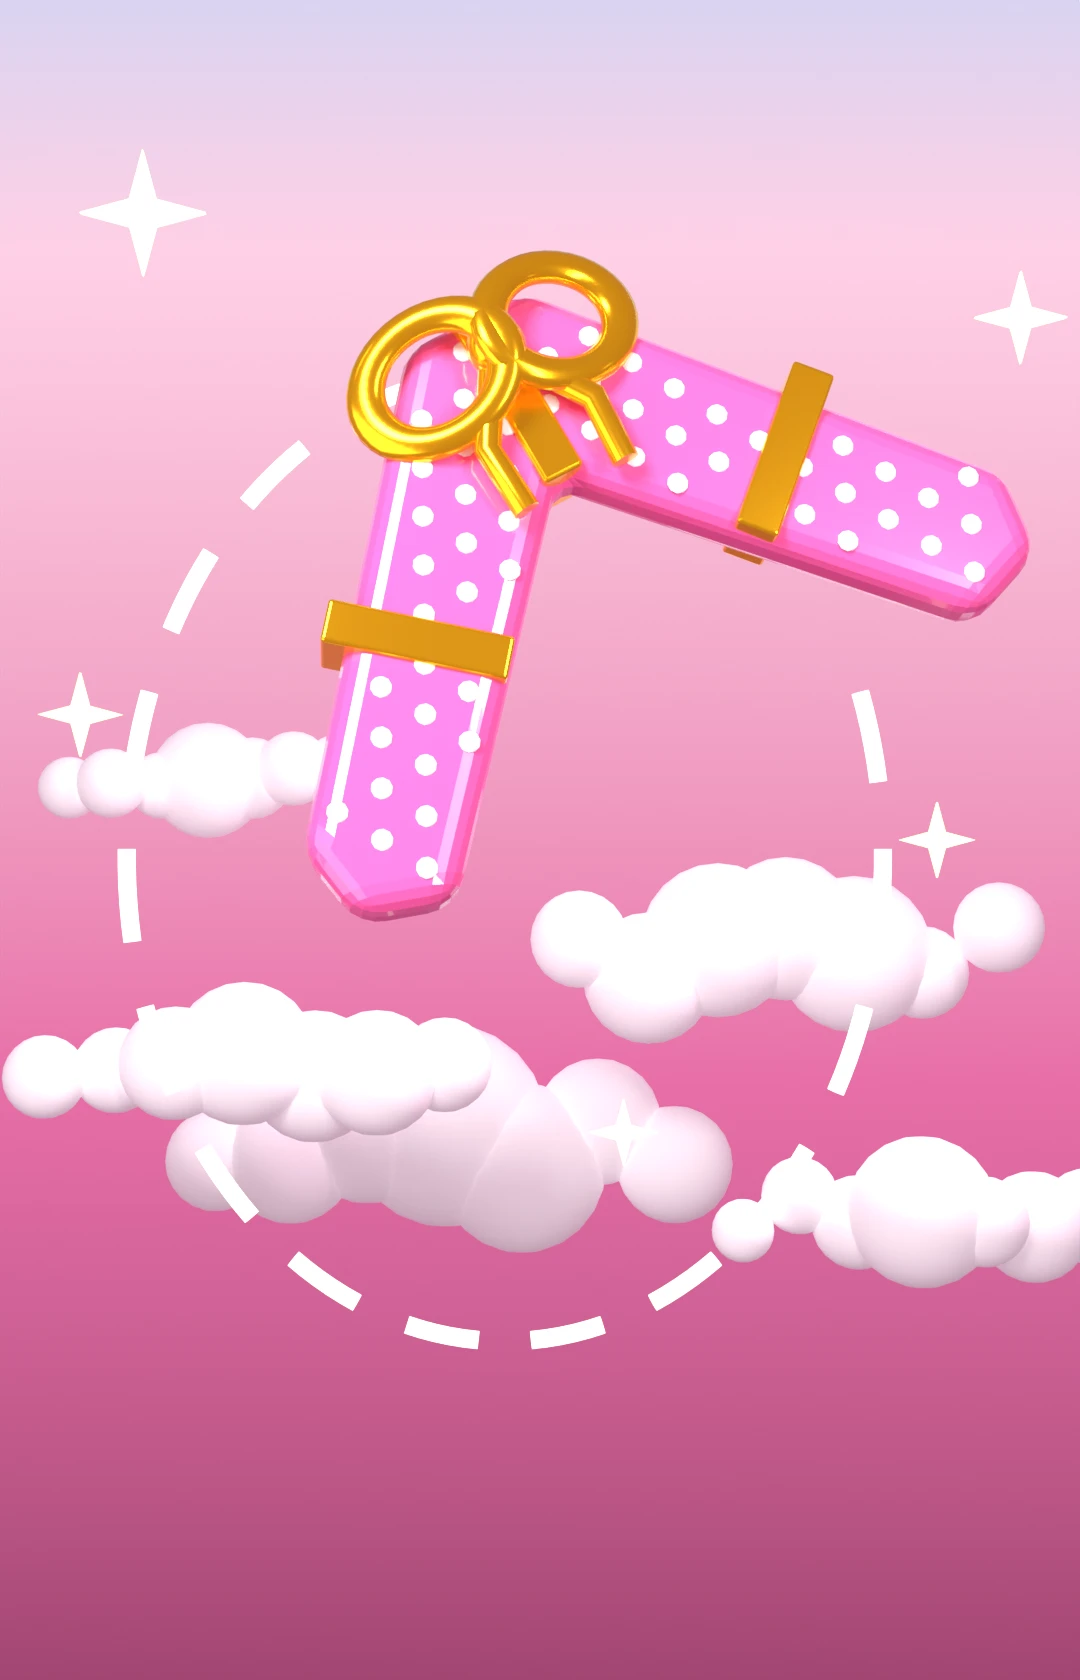
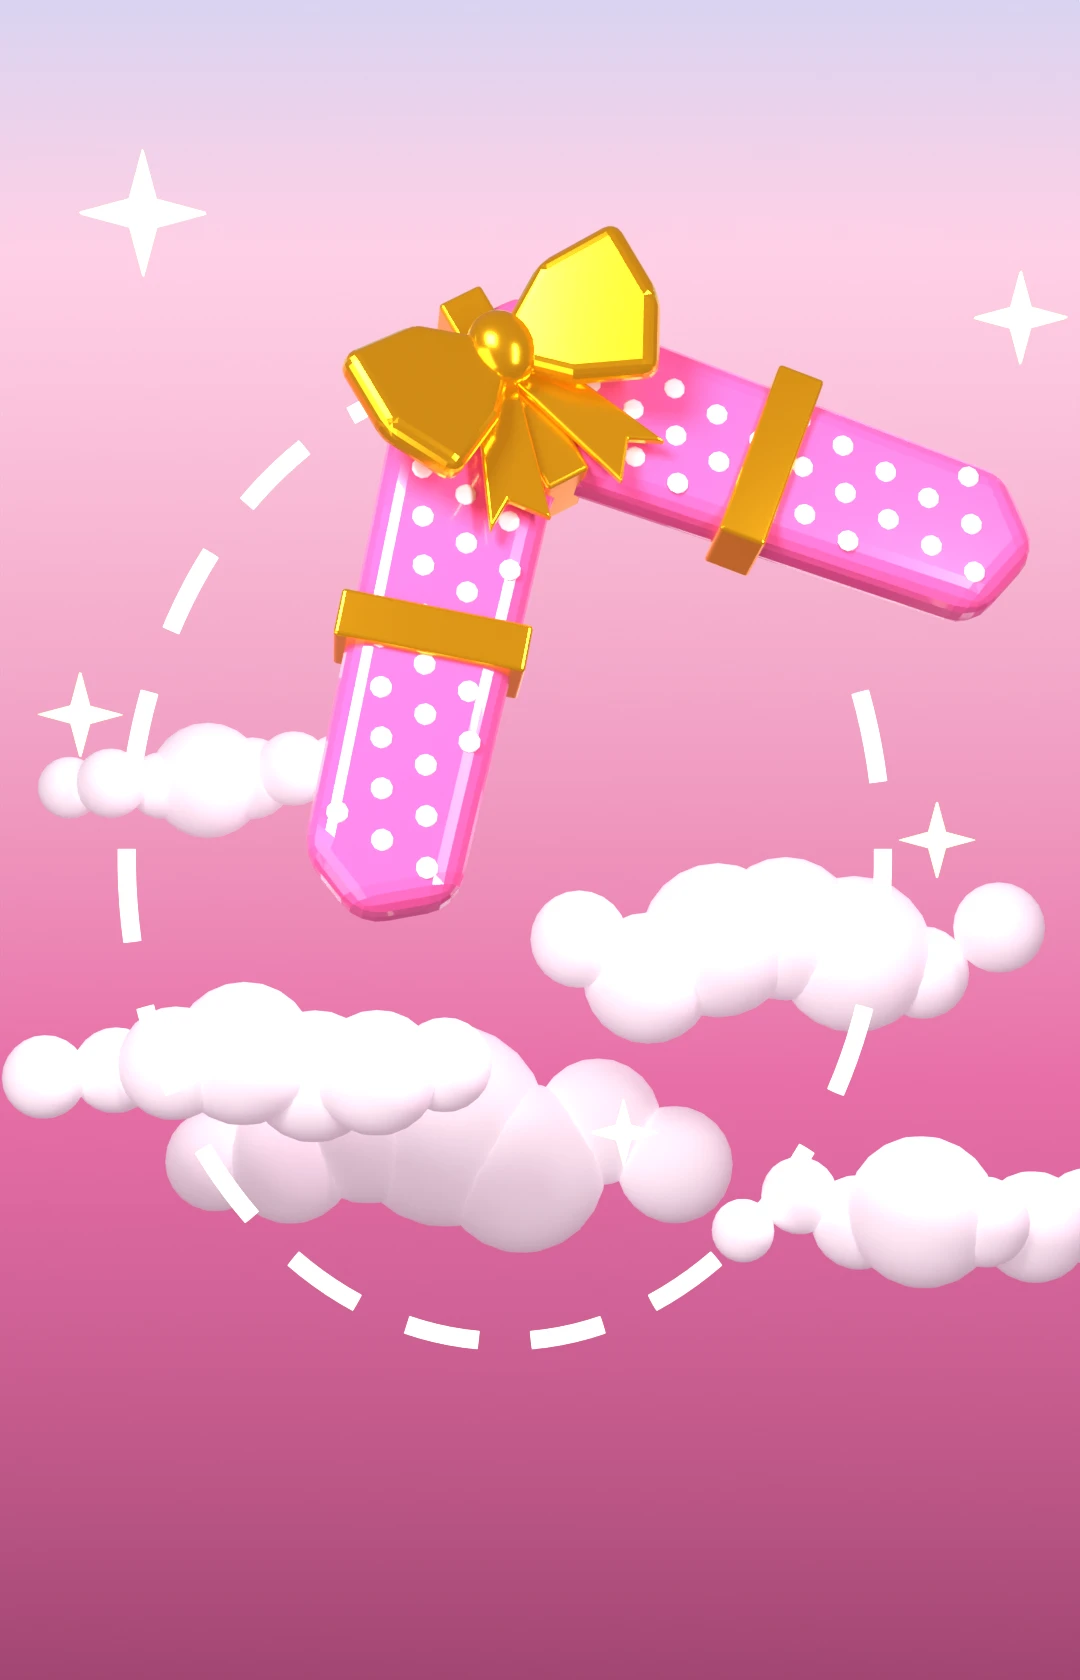
Revise seven card pictures to the owner's notes
SoVeryHappy: bulging eyes, brows low over the nose, the nose out in front
of the mustache, to match its new mark. Whoopee Cushion: no noise lines and
a smaller cloud, clear of the letters. Required Reading: the bookmark gone,
the glasses clear of the apple. Kick Me: a rounder boot on a leg, swung
about a hip, and the sign hung clear of the post. Pay It Forward: ribbons
right round each arm and a bow with loops and tails. Thick Skin: bursts
turned out from the shell, darts tumbling. Necro Bump: no speed lines,
moonlight, a low tipped camera, the moon over the stone's shoulder.

Changed region(s): [[0.275, 0.1238, 0.6722, 0.4333], [0.6417, 0.2167, 0.7944, 0.3405]]

diff --git a/instances/divided-world/ui/cards/kick-me/scene.py b/instances/divided-world/ui/cards/kick-me/scene.py
@@ -1,4 +1,4 @@
-"""Kick Me card art: a post with a KICK ME sign taped to it, and a boot already on its way. (The card hangs the sign
+"""Kick Me card art: a post with a KICK ME sign taped to it, and somebody's boot on the way up to it. (The card hangs the sign
 on one's own post for 3 days, and the first three Salty casts on it are refunded to their casters.)"""
 import sys, os, math
 sys.path.insert(0, os.path.dirname(os.path.dirname(os.path.abspath(__file__))))   # rig.py is one folder up, shared by every card
@@ -34,25 +34,34 @@ sign = [rig.slab('sign', rig.rrect(2.7, 2.15, 0.04, 2), -0.012, 0.012, paper, 0.
         rig.text('ME', 0.98, marker, (0, -0.03, -0.5), depth=0.008, bevel=0.002)]
 for sx in (-1, 1):
     t = rig.slab('tape', rig.rrect(0.75, 0.26, 0.02, 1), -0.03, -0.018, tape, 0.0); t.location = (sx * 1.25, 0, 1.0); t.rotation_euler.y = math.radians(sx * 38); sign.append(t)
-rig.group(sign, loc=(0.35, 0.55, 1.75), rot=(6, 4, -9))
+rig.group(sign, loc=(0.35, 0.3, 1.75), rot=(2, -6, -9))    # hung clear of the post's face, turned the way the post is
 
-# ---- the boot: on the upswing, toe first ----------------------------------------------------------
+# ---- the boot: a leg swung from a hip up off the card's left, the toe about to arrive ---------------
 leather = rig.plastic('leather', rig.hexrgb('#5a2a14'), rough=0.3, coat=0.7)
 sole = rig.plastic('sole', (0.02, 0.018, 0.016), rough=0.5)
 brass = rig.plastic('brass', rig.hexrgb('#ffc21c'), rough=0.2, metallic=1.0)
-UPPER = [(-1.15, 0.0), (1.2, 0.0), (1.5, 0.12), (1.62, 0.42), (1.5, 0.74), (1.1, 0.95), (0.55, 1.02), (0.22, 1.3), (0.14, 2.45), (-1.02, 2.45), (-1.1, 0.5)]
-SOLE = [(-1.25, -0.48), (-0.55, -0.48), (-0.5, -0.24), (1.3, -0.24), (1.66, -0.1), (1.72, 0.06), (-1.25, 0.06)]
-boot = [rig.slab('upper', UPPER, -0.5, 0.5, leather, 0.22), rig.slab('sole', SOLE, -0.56, 0.56, sole, 0.05),
-        rig.slab('cuff', rig.rrect(1.3, 0.34, 0.12), -0.56, 0.56, rig.plastic('cuff', rig.hexrgb('#f2e2c0'), rough=0.6), 0.08)]
-boot[2].location = (-0.44, 0, 2.42)
+denim = rig.plastic('denim', rig.hexrgb('#27508a'), rough=0.7)
+UPPER = [(-1.1, 0.0), (1.15, 0.0), (1.5, 0.1), (1.66, 0.4), (1.56, 0.74), (1.15, 0.98), (0.6, 1.05), (0.26, 1.35), (0.16, 2.45), (-1.0, 2.45), (-1.08, 0.5)]
+SOLE = [(-1.2, -0.42), (-0.5, -0.42), (-0.45, -0.22), (1.3, -0.22), (1.68, -0.1), (1.76, 0.06), (-1.2, 0.06)]
+def soft(o):
+    """Round a slab off: the old trick of subdividing the surface."""
+    md = o.modifiers.new('soft', 'SUBSURF'); md.levels = md.render_levels = 2
+    for f in o.data.polygons: f.use_smooth = True
+    return o
+boot = [soft(rig.slab('upper', UPPER, -0.48, 0.48, leather, 0.2)), soft(rig.slab('sole', SOLE, -0.54, 0.54, sole, 0.06)),
+        rig.ball((1.02, 0, 0.5), 0.56, leather, 'toe', 40, scale=(1.2, 0.86, 0.9)),
+        rig.cone((-0.42, 0, 2.2), (-0.42, 0, 2.75), 0.62, 0.66, rig.plastic('cuff', rig.hexrgb('#f2e2c0'), rough=0.6), 40),
+        rig.cone((-0.42, 0, 2.6), (-0.42, 0, 9.0), 0.6, 0.8, denim, 40)]              # the leg, away up to the hip
 for k in range(5):                       # eyelets up the front, and the lace between them
-    x, z = 0.28 - 0.02 * k, 1.2 + 0.24 * k
-    boot.append(rig.ball((x, -0.5, z), 0.06, brass, 'eyelet', 12))
-    boot.append(rig.tube('lace', [(x, -0.52, z), (x - 0.25, -0.56, z + 0.1), (x - 0.02, -0.52, z + 0.24)], 0.025, rig.plastic('lace', rig.hexrgb('#f2e2c0'), rough=0.6), res=3))
-rig.group(boot, loc=(-0.2, -1.0, -2.7), rot=(0, -50, -20), scale=0.72)
+    x, z = 0.3 - 0.02 * k, 1.25 + 0.22 * k
+    boot.append(rig.ball((x, -0.46, z), 0.06, brass, 'eyelet', 12))
+    boot.append(rig.tube('lace', [(x, -0.48, z), (x - 0.25, -0.52, z + 0.1), (x - 0.02, -0.48, z + 0.22)], 0.025, rig.plastic('lace', rig.hexrgb('#f2e2c0'), rough=0.6), res=3))
+HIP = Vector((-3.6, -1.0, 2.4)); REACH = 5.0; AT = math.radians(-44)     # the leg's pivot, its length, and where on its swing the boot is
+foot = HIP + Vector((math.cos(AT), 0, math.sin(AT))) * REACH
+rig.group(boot, loc=tuple(foot), rot=(0, math.degrees(AT) - 90 + 90 - 4, -14), scale=0.6)   # shin toward the hip, toe along the swing
 swing = rig.glow('swing', rig.hexrgb('#ffd27a'), 2.5, alpha=0.6)
-for r, w in ((2.9, 0.045), (3.3, 0.035), (3.7, 0.025)):   # the arc it has come through
-    rig.tube('swing', [(1.6 + math.cos(a) * r, -0.6, 0.9 + math.sin(a) * r) for a in (math.radians(-175 + 50 * j / 20) for j in range(21))], w, swing, res=2)
+for r, w, back in ((REACH - 0.35, 0.03, 30), (REACH + 0.05, 0.045, 38), (REACH + 0.45, 0.03, 30)):   # the arc the foot has come up through, about the hip
+    rig.tube('swing', [tuple(HIP + Vector((math.cos(a), 0, math.sin(a))) * r + Vector((0, 0.5, 0))) for a in (AT - math.radians(9 + back * j / 20) for j in range(21))], w, swing, res=2)
 
 LOOK = (0, 0, 0.5)
 rig.area('key', (-5, -9, 7), 4.0, 1500, look_at=LOOK)

diff --git a/instances/divided-world/ui/cards/necro-bump/scene.py b/instances/divided-world/ui/cards/necro-bump/scene.py
@@ -1,18 +1,19 @@
 """Necro Bump card art: a headstone shot back up out of its own grave on a spring, an arrow cut into it under the
-R.I.P., dirt still flying, a fat moon behind. (The card bumps an old post's thread to the top of its board and marks
+R.I.P., dirt still flying, a cold moon over its shoulder. (The card bumps an old post's thread to the top of its board and marks
 the post "bumped" for a day.)"""
 import sys, os, math, random
 sys.path.insert(0, os.path.dirname(os.path.dirname(os.path.abspath(__file__))))   # rig.py is one folder up, shared by every card
 sys.dont_write_bytecode = True           # no __pycache__ beside the card folders: the art guard reads every folder there as a card's
 import bpy
-from mathutils import Vector
+from mathutils import Vector, Quaternion
 import rig
 
 OUT = sys.argv[-1]
 rnd = random.Random(int(os.environ.get('BUMP_SEED', '9')))
 sc = rig.reset()
-rig.backdrop(22, [(0.0, '#0a0102'), (0.4, '#3a0a0a'), (0.75, '#8a2414'), (1.0, '#160304')]).scale = (80, 50, 1)
-rig.ball((1.5, 20, 3.6), 4.2, rig.glow('moon', rig.hexrgb('#ffb24a'), 1.6), 'moon', 64, scale=(1, 0.05, 1))
+rig.backdrop(22, [(0.0, '#04030c'), (0.3, '#1a1030'), (0.5, '#4a1c44'), (0.72, '#241238'), (1.0, '#0e0c24')]).scale = (260, 200, 1)
+MOON = tuple(float(v) for v in os.environ.get('BUMP_MOON', '8.4 20 17.5').split())
+rig.ball(MOON, 3.0, rig.glow('moon', rig.hexrgb('#e8f0ff'), 1.5), 'moon', 64, scale=(1, 0.05, 1))
 G = -3.3
 m, n, l, b = rig.material('ground'); b.inputs['Base Color'].default_value = (*rig.hexrgb('#1c0c08'), 1); b.inputs['Roughness'].default_value = 0.9
 rig.floor(G, m)
@@ -51,15 +52,13 @@ rig.ball((0, 0, G + 0.02), 1.0, rig.plastic('hole', (0.002, 0.001, 0.001), rough
 for i in range(26):                      # and what went up with the stone
     a = rnd.uniform(0, math.tau); d = rnd.uniform(0.6, 2.4)
     rig.ball((math.cos(a) * d, rnd.uniform(-1.2, 0.6), G + rnd.uniform(0.6, 3.2)), rnd.uniform(0.05, 0.16), dirt, 'clod', 10)
-line = rig.glow('line', rig.hexrgb('#ffd27a'), 2.0, alpha=0.6)
-for x in (-1.75, -1.5, 1.6, 1.85):       # the speed of it
-    z0 = rnd.uniform(-2.2, -1.2)
-    rig.tube('line', [(x, -0.4, z0), (x, -0.4, z0 + rnd.uniform(1.0, 1.9))], 0.03, line, res=2)
-
 LOOK = (0, 0, 1.0)
-rig.area('key', (-5, -9, 6), 4.0, 1400, rgb=(1.0, 0.92, 0.85), look_at=LOOK)
-rig.area('rim', (5, 6, 7), 4.0, 2600, rgb=(1.0, 0.55, 0.2), look_at=LOOK, glossy=False)
-rig.area('soft', (-7, -4, -1), 8.0, 300, rgb=(1.0, 0.8, 0.7), look_at=LOOK)
-rig.world((0.06, 0.015, 0.01), 0.6)
-rig.camera(50, elev=3)
+rig.area('key', (-6, -7, 8), 4.0, 1500, rgb=(0.6, 0.75, 1.0), look_at=LOOK)       # moonlight
+rig.area('rim', (5, 6, 7), 4.0, 2600, rgb=(0.3, 0.6, 1.0), look_at=LOOK, glossy=False)
+rig.area('soft', (-7, -4, -1), 8.0, 220, rgb=(0.6, 0.7, 1.0), look_at=LOOK)
+rig.world((0.01, 0.015, 0.04), 0.6)
+cam = rig.camera(32)                     # low in the grass and tipped, looking up at it
+EYE = Vector(tuple(float(v) for v in os.environ.get('BUMP_EYE', '-1.5 -7.8 -2.7').split())); AIM = Vector((0.4, 0, -0.3))
+cam.location = EYE
+cam.rotation_euler = ((AIM - EYE).to_track_quat('-Z', 'Y') @ Quaternion((0, 0, 1), math.radians(9))).to_euler()
 rig.render(OUT)

diff --git a/instances/divided-world/ui/cards/pay-it-forward/scene.py b/instances/divided-world/ui/cards/pay-it-forward/scene.py
@@ -34,14 +34,15 @@ for gx in range(-9, 10):                 # polka dots, wherever the paper is
         if all(inside(x + dx, z + dz) for dx, dz in ((0.16, 0), (-0.16, 0), (0, 0.16), (0, -0.16))):
             parts.append(rig.ball((x, -0.2, z), 0.055, dot, 'dot', 10, scale=(1, 0.25, 1)))
 for sx in (-1, 1):                       # a ribbon round each arm
-    mid = Vector((sx * 1.05, 0, -0.1)); along = Vector((sx * 1.62, 0, -1.9)).normalized(); across = Vector((-along.z, 0, along.x))
-    r = rig.slab('ribbon', [tuple((mid + along * a + across * c).xz) for a, c in ((-0.11, -0.46), (0.11, -0.46), (0.11, 0.46), (-0.11, 0.46))], -0.235, 0.235, gold, 0.02); parts.append(r)
-parts.append(rig.slab('ribbon', [(-0.11, 0.3), (0.11, 0.3), (0.11, 1.32), (-0.11, 1.32)], -0.235, 0.235, gold, 0.02))
-for sx in (-1, 1):                       # the bow at its elbow
-    bpy.ops.mesh.primitive_torus_add(major_radius=0.3, minor_radius=0.085, major_segments=40, minor_segments=12, location=(sx * 0.34, -0.3, 1.0), rotation=(math.radians(90), 0, math.radians(sx * 20)))
-    o = bpy.context.object; bpy.ops.object.shade_smooth(); o.scale = (1.25, 1, 0.8); o.data.materials.append(gold); parts.append(o)
-    parts.append(rig.tube('tail', [(sx * 0.05, -0.3, 0.95), (sx * 0.3, -0.32, 0.55), (sx * 0.28, -0.3, 0.2)], 0.07, gold, res=4))
-parts.append(rig.ball((0, -0.34, 1.0), 0.15, gold, 'knot', 24))
+    mid = Vector((sx * 0.965, 0, -0.1)); along = Vector((sx * 1.68, 0, -2.0)).normalized(); across = Vector((-along.z, 0, along.x))
+    r = rig.slab('ribbon', [tuple((mid + along * a + across * c).xz) for a, c in ((-0.12, -0.47), (0.12, -0.47), (0.12, 0.47), (-0.12, 0.47))], -0.25, 0.25, gold, 0.02); parts.append(r)
+parts.append(rig.slab('ribbon', [(-0.12, 0.26), (0.12, 0.26), (0.12, 1.36), (-0.12, 1.36)], -0.25, 0.25, gold, 0.02))
+LOOP = [(0.0, 0.07), (0.3, 0.36), (0.72, 0.44), (0.82, 0.02), (0.7, -0.36), (0.3, -0.26), (0.0, -0.07)]     # one loop of the bow, pinched at the knot
+TAIL = [(0.0, 0.0), (0.2, -0.04), (0.5, -0.72), (0.34, -0.62), (0.2, -0.8), (0.0, -0.12)]                   # one tail, notched
+for sx in (-1, 1):                       # the bow at its elbow: two loops, a knot, two tails
+    loop = rig.slab('loop', [(sx * x, z) for x, z in LOOP], -0.09, 0.09, gold, 0.07); loop.location = (0, -0.36, 0.95); loop.rotation_euler = (0, math.radians(sx * 14), math.radians(sx * -16)); parts.append(loop)
+    tail = rig.slab('tail', [(sx * x, z) for x, z in TAIL], -0.03, 0.03, gold, 0.015); tail.location = (0, -0.3, 0.9); parts.append(tail)
+parts.append(rig.ball((0, -0.42, 0.95), 0.17, gold, 'knot', 24, scale=(1, 0.8, 1.15)))
 rig.group(parts, loc=(0.25, 0, 1.5), rot=(-14, -28, 12), scale=1.0)
 
 # ---- the way it goes: out, round, and back --------------------------------------------------------

diff --git a/instances/divided-world/ui/cards/whoopee-cushion/scene.py b/instances/divided-world/ui/cards/whoopee-cushion/scene.py
@@ -1,4 +1,4 @@
-"""Whoopee Cushion card art: the cushion itself, mid-squeeze, letting go a cloud out of its nozzle, with the noise
+"""Whoopee Cushion card art: the cushion itself, mid-squeeze, letting go a small cloud out of its nozzle, with the noise
 spelled out under it. (The card springs on the first common cast on its post, lets it land, and pays the setter a
 share of what it draws.)"""
 import sys, os, math, random
@@ -31,15 +31,10 @@ bpy.context.view_layer.update()
 MOUTH = cushion.matrix_world @ (out * 2.8); BLOW = (cushion.matrix_world.to_3x3() @ out).normalized()
 
 puff = rig.plastic('puff', rig.hexrgb('#dff2a8'), rough=0.9, emit=0.04)       # the cloud, greener than is polite
-for i in range(26):
-    t = (i / 25) ** 0.8; d = 0.2 + 1.5 * t; spread = 0.1 + 0.5 * t
-    p = MOUTH + BLOW * d + Vector((rnd.uniform(-spread, spread), rnd.uniform(-spread, spread), rnd.uniform(-spread, spread) + 0.5 * t * t))
-    rig.ball(tuple(p), 0.13 + 0.26 * t * rnd.uniform(0.7, 1.2), puff, 'puff', 24)
-line = rig.glow('line', rig.hexrgb('#fff1a0'), 3.0)
-for k in range(7):                       # the noise, as lines
-    a = rnd.uniform(-0.6, 0.6); side = Vector((0, 0, 1)).cross(BLOW).normalized()
-    start = MOUTH + BLOW * rnd.uniform(0.2, 0.9) + side * a + Vector((0, 0, rnd.uniform(-0.6, 0.6)))
-    rig.tube('line', [tuple(start), tuple(start + (BLOW + side * a * 0.6) * rnd.uniform(0.5, 1.0))], 0.03, line, res=2)
+for i in range(18):
+    t = (i / 17) ** 0.8; d = 0.15 + 0.95 * t; spread = 0.06 + 0.3 * t
+    p = MOUTH + BLOW * d + Vector((rnd.uniform(-spread, spread), rnd.uniform(-spread, spread), rnd.uniform(-spread, spread) + 0.55 * t * t))
+    rig.ball(tuple(p), 0.1 + 0.17 * t * rnd.uniform(0.7, 1.2), puff, 'puff', 24)
 gold = rig.plastic('gold', rig.hexrgb('#ffc21c'), rough=0.2, metallic=0.8, emit=0.15)
 for ch, x, z, tilt in (('P', -1.5, -1.6, 14), ('F', -0.75, -1.85, 5), ('F', 0.0, -1.95, -3), ('F', 0.75, -1.85, -8), ('T', 1.5, -1.6, -16)):
     rig.text(ch, 1.05, gold, (x, -0.8, z), depth=0.14, bevel=0.03, rot=(0, math.radians(tilt), 0))

diff --git a/instances/divided-world/ui/cards/so-very-happy/scene.py b/instances/divided-world/ui/cards/so-very-happy/scene.py
@@ -79,12 +79,12 @@ rig.lathe('cap', [(1.63, -0.1), (1.64, 0.15), (1.56, 0.5), (1.32, 0.86), (0.9, 1
 brim = rig.ball((0, -1.2, CZ - 0.02), 1.0, red, 'brim', 48, scale=(1.62, 1.05, 0.2)); brim.rotation_euler.x = math.radians(9)
 badge = rig.ball((0, -1.47, CZ + 0.62), 0.47, white, 'badge', 48, scale=(1, 0.2, 1)); badge.rotation_euler.x = math.radians(-24)
 rig.text('SVH', 0.36, red, (0, -1.56, CZ + 0.63), depth=0.02, bevel=0.006, rot=(math.radians(-24), 0, 0))
-for sx in (-1, 1):                       # the eyes: wide, white, a red ring round a pinprick, looking dead ahead
-    ex, ez = sx * 0.6, px(8, 10.1)[1]
-    for r, mat, y, sy in ((0.52, white, -1.24, 0.5), (0.2, iris, -1.47, 0.3), (0.075, black, -1.52, 0.3)):
-        rig.ball((ex - sx * 0.05 * (mat is not white), y, ez), r, mat, 'eye', 48, scale=(0.94, sy, 1.16))
-    rig.tube('brow', [(sx * (0.12 + 1.05 * t), -1.36 + 0.5 * t * t, ez + 0.72 + 0.16 * math.sin(math.pi * t)) for t in (j / 10 for j in range(11))], 0.09, black, res=5)
-rig.ball((0, -1.55, px(8, 13)[1] + 0.08), 0.37, skin, 'nose', 40, scale=(1.12, 1, 1))
+for sx in (-1, 1):                       # the eyes: bulging out of the head, a red ring round a pinprick, looking dead ahead
+    ex, ez = sx * 0.62, px(8, 10.1)[1]
+    for r, mat, y, sy in ((0.62, white, -1.3, 0.82), (0.23, iris, -1.77, 0.3), (0.085, black, -1.82, 0.3)):
+        rig.ball((ex - sx * 0.05 * (mat is not white), y, ez), r, mat, 'eye', 48, scale=(0.94, sy, 1.12))
+    rig.tube('brow', [(sx * (0.1 + 1.1 * t), -1.86 + 0.55 * t * t, ez + 0.42 + 0.5 * t + 0.08 * math.sin(math.pi * t)) for t in (j / 10 for j in range(11))], 0.13, black, res=5)   # low over the nose, high at the temples
+rig.ball((0, -1.98, px(8, 13)[1] + 0.08), 0.42, skin, 'nose', 40, scale=(1.12, 1, 1))     # out in front of the mustache
 hair = rig.plastic('mustache', (0.006, 0.004, 0.003), rough=0.6)
 MZ = px(8, 13.7)[1]
 for sx in (-1, 1):                       # the mustache, which the smiley's few pixels run into the mouth: three lobes a side, the last turned up

diff --git a/instances/divided-world/ui/cards/required-reading/scene.py b/instances/divided-world/ui/cards/required-reading/scene.py
@@ -29,11 +29,8 @@ z = G
 for w, d, h, hx, title, turn, dx in ((4.3, 3.0, 0.95, '#7a1848', 'ALL OF IT', -7, 0.1), (4.0, 2.8, 0.8, '#e86fa8', 'THE REST OF IT', 6, -0.15),
                                      (3.7, 2.6, 1.05, '#3a8f9a', 'THE FOOTNOTES', -3, 0.1), (3.2, 2.3, 0.6, '#f2e2c0', 'APPENDIX Q', 11, -0.1)):
     book(z, w, d, h, hx, title, turn, dx); z += h
-ribbon = rig.plastic('ribbon', rig.hexrgb('#d8121c'), rough=0.4)
-rig.tube('ribbon', [(-1.25, -1.0, z - 0.35), (-1.3, -1.2, z - 0.62), (-1.22, -1.25, z - 1.0)], 0.045, ribbon, res=3).scale.x = 1.0
-
 apple = rig.plastic('apple', rig.hexrgb('#e2101c'), rough=0.12, coat=1.0)        # the apple, with one leaf
-A = Vector((-0.35, 0.2, z + 0.62))
+A = Vector((-0.8, 0.25, z + 0.62))
 rig.ball(tuple(A), 0.72, apple, 'apple', 48, scale=(1.05, 1.05, 0.92))
 rig.ball(tuple(A + Vector((0, 0, 0.6))), 0.2, rig.plastic('dimple', rig.hexrgb('#7a0810'), rough=0.3), 'dimple', 24, scale=(1, 1, 0.35))
 rig.cone(tuple(A + Vector((0, 0, 0.55))), tuple(A + Vector((0.1, 0, 0.98))), 0.035, 0.045, rig.plastic('stem', rig.hexrgb('#4a2a12'), rough=0.6), 12)
@@ -46,7 +43,7 @@ for sx in (-1, 1):
     lens = rig.ball((sx * 0.44, 0, 0), 0.34, rig.glow('lens', (0.8, 0.95, 1.0), 0.6, alpha=0.25), 'lens', 32, scale=(1, 0.05, 1)); glasses.append(lens)
     glasses.append(rig.tube('arm', [(sx * 0.8, 0, 0.05), (sx * 0.84, 0.9, 0.08), (sx * 0.84, 1.15, -0.1)], 0.03, gold, res=4))
 glasses.append(rig.tube('bridge', [(-0.09, 0, 0.1), (0, 0, 0.16), (0.09, 0, 0.1)], 0.03, gold, res=4))
-rig.group(glasses, loc=(1.05, -0.35, z + 0.37), rot=(-8, 0, 14), scale=1.0)
+rig.group(glasses, loc=(0.85, -0.55, z + 0.37), rot=(-8, 0, -12), scale=1.0)
 
 LOOK = (0, 0, 0.8)
 rig.area('key', (-5, -9, 8), 4.0, 2100, look_at=LOOK)

diff --git a/instances/divided-world/ui/cards/thick-skin/scene.py b/instances/divided-world/ui/cards/thick-skin/scene.py
@@ -49,9 +49,12 @@ def dart(hit, away, color, spin):
     for turn in (0, 90):
         f = rig.slab('flight', [(1.85, 0.0), (2.1, 0.34), (2.75, 0.34), (2.5, 0.0), (2.75, -0.34), (2.1, -0.34)], -0.012, 0.012, flight, 0.0)
         f.rotation_euler.x = math.radians(turn + spin); parts.append(f)
-    root = rig.group(parts, loc=tuple(hit + away * 0.3), scale=0.72)
-    root.rotation_euler = Vector((1, 0, 0)).rotation_difference(away).to_euler()
-    o = rig.slab('flash', rig.star(8, 0.34, 0.13, rnd.uniform(0, 1)), -0.02, 0.02, flash, 0.0); o.location = hit + Vector((0, -0.25, 0))
+    tumble = (away + Vector((rnd.uniform(-1, 1), rnd.uniform(-0.5, 0.2), rnd.uniform(-1, 1))) * 0.75).normalized()   # end over end, any way but back in
+    root = rig.group(parts, loc=tuple(hit + Vector((away.x, away.y * 0.4, away.z)) * rnd.uniform(0.4, 0.6)), scale=0.6)
+    root.rotation_euler = Vector((1, 0, 0)).rotation_difference(tumble).to_euler()
+    out = (hit - C).normalized()         # the burst stands off the shell and leans out with it, so no point of it is in the coconut
+    o = rig.slab('flash', rig.star(8, 0.34, 0.13, rnd.uniform(0, 1)), -0.02, 0.02, flash, 0.0); o.location = hit + out * 0.22 + Vector((0, -0.12, 0))
+    o.rotation_euler = Vector((0, -1, 0)).rotation_difference((out * 0.75 + Vector((0, -1, 0))).normalized()).to_euler()
 for x, z, away, color, spin in ((-1.0, 0.8, (-0.8, -0.35, 0.75), '#3fb8e8', 20), (1.1, 0.5, (0.9, -0.3, 0.45), '#ffc21c', 50),
                                 (-1.05, -0.65, (-0.9, -0.3, -0.45), '#6fd86a', 35), (0.9, -0.85, (0.75, -0.4, -0.7), '#e2101c', 10)):
     dart(on_shell(x, z), Vector(away).normalized(), color, spin)
